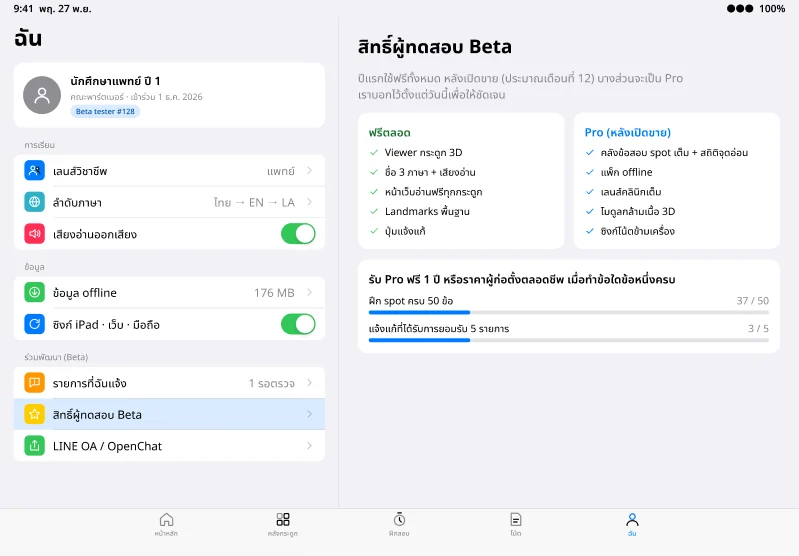
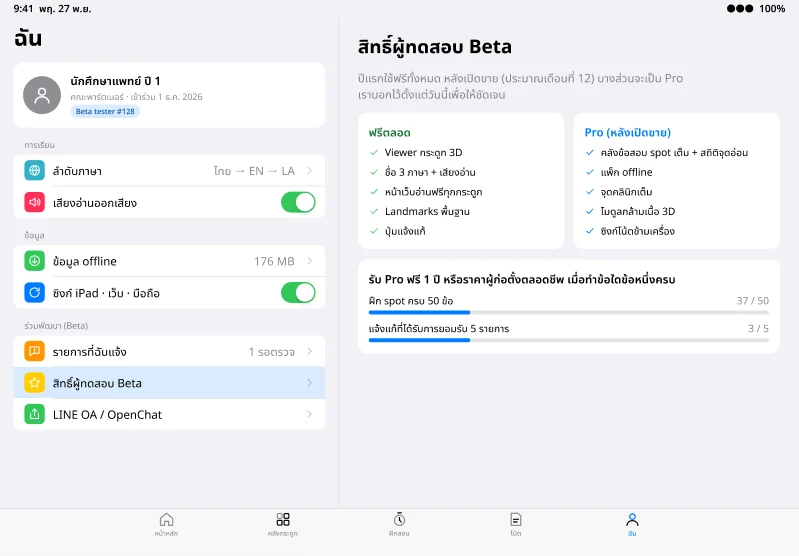
Drop profession lenses: one audience of medical students and professionals
Removes the profession-selection onboarding step, the lens setting and
lens colour tokens; clinical points become one set with four categories
(fractures, teeth/foramina, injection, palpation). Screens re-exported.

Claude-Session: https://claude.ai/code/session_01J9ZUutuVeaZk4PcqL3Fpz3

Changed region(s): [[0.0, 0.2752, 0.4205, 0.8255], [0.7509, 0.3363, 0.8411, 0.3669]]

diff --git a/anatomy-market-research/product-design/product-design.html b/anatomy-market-research/product-design/product-design.html
@@ -35,44 +35,36 @@ nav a.on{background:var(--ink);color:var(--bg)}
 <li>เห็น landmark และจุดเกาะกล้ามเนื้อบนผิวกระดูกในระดับที่ใช้สอบจริง</li>
 <li>ฝึกสอบ spot แบบจับเวลาบนโมเดล 3D แล้วทบทวนจุดที่ตอบผิดต่อบนมือถือ</li>
 </ol>
-<h2>2. ผู้ใช้และเลนส์วิชาชีพ</h2>
-<p>ผู้ใช้เลือกเลนส์วิชาชีพตอนเริ่มใช้ (เปลี่ยนได้ในหน้า ฉัน) เลนส์ใช้ข้อมูลชุดเดียวกัน แต่เปลี่ยนลำดับเนื้อหาและ "จุดคลินิก" ที่แสดง</p>
+<h2>2. ผู้ใช้</h2>
+<p>แอปออกแบบให้<strong>นักศึกษาแพทย์และบุคลากรด้านสุขภาพ</strong> ซึ่งต้องการรายละเอียดมากที่สุด ผู้ใช้ไม่ต้องเลือกบทบาทหรือวิชาชีพ ทุกคนเห็นเนื้อหาชุดเดียวกันในระดับละเอียดที่สุด (Jedt ตัดสินใจ 27 พ.ย. 2026) โหมดสำหรับศิลปินจะทำในภายหลัง</p>
+<p>จุดคลินิกจึงเป็นชุดเดียวที่ผูกกับ landmark ทุกจุด แบ่งเป็น 4 หมวดในหน้าจุดคลินิก:</p>
 <table>
 <thead>
 <tr>
-<th>เลนส์</th>
-<th>ใช้แอปเพื่อ</th>
-<th>จุดคลินิกที่เห็นก่อน</th>
-<th>สีประจำเลนส์</th>
+<th>หมวด</th>
+<th>ตัวอย่าง</th>
 </tr>
 </thead>
 <tbody>
 <tr>
-<td>แพทย์</td>
-<td>landmark ละเอียด จุดเกาะ เตรียมสอบ spot</td>
-<td>กระดูกหักที่พบบ่อย จุดคลำ</td>
-<td>น้ำเงิน</td>
+<td>กระดูกหัก</td>
+<td>ตำแหน่งที่หักบ่อย และเส้นประสาทหรือหลอดเลือดที่เสี่ยง</td>
 </tr>
 <tr>
-<td>ทันตแพทย์</td>
-<td>กะโหลกแยกชิ้น ฟันแท้และเลข FDI รูเปิดกะโหลก</td>
-<td>ฟัน FDI รูเปิดและเส้นประสาท</td>
-<td>ฟ้าอมเขียว</td>
+<td>ฟัน · รูเปิด</td>
+<td>ฟันแท้และเลข FDI รูเปิดของกะโหลกและสิ่งที่ผ่าน</td>
 </tr>
 <tr>
-<td>พยาบาล</td>
-<td>ตำแหน่งฉีดยาเข้ากล้ามเทียบกับ landmark</td>
-<td>ventrogluteal, deltoid, vastus lateralis</td>
-<td>ชมพู</td>
+<td>ฉีดยา</td>
+<td>ventrogluteal, deltoid, vastus lateralis หาตำแหน่งจาก landmark</td>
 </tr>
 <tr>
-<td>เภสัช</td>
-<td>จุดฉีดยาและตำแหน่งที่เกี่ยวกับการให้ยา</td>
-<td>ตำแหน่งฉีดยา</td>
-<td>เขียว</td>
+<td>จุดคลำ</td>
+<td>landmark ที่คลำได้บนผิวกาย</td>
 </tr>
 </tbody>
 </table>
+<p>ผู้เริ่มเรียนไม่ต้องตั้งค่าอะไรเพิ่ม หน้าจอเปิดจากชื่อกระดูกก่อน แล้วค่อยลงไปที่ landmark และจุดคลินิกในหน้าเดียวกัน</p>
 <p>ผู้ใช้กลุ่มที่สองคือ <strong>อาจารย์</strong> ที่สร้างชุด spot ของตัวเองแล้วแชร์รหัสให้นักศึกษา (โหมดอาจารย์) และตรวจรายการแจ้งแก้ที่เป็นเนื้อหา</p>
 <h2>3. หลักการออกแบบ</h2>
 <ol>
@@ -159,7 +151,7 @@ nav a.on{background:var(--ink);color:var(--bg)}
 <p>ดัชนี (ส่วนร่างกาย + A–Z) → หน้าอ่านของแต่ละกระดูก → viewer 3D บนเว็บ</p>
 <h2>6. Flow หลัก</h2>
 <ol>
-<li><strong>เริ่มใช้ครั้งแรก:</strong> ยินดีต้อนรับ → เลือกเลนส์วิชาชีพและชั้นปี → เลือกลำดับภาษาและความยินยอม beta (แยก analytics กับการติดต่อกลับ ตาม PDPA) → หน้าหลัก</li>
+<li><strong>เริ่มใช้ครั้งแรก:</strong> ยินดีต้อนรับ → เลือกลำดับภาษาและความยินยอม beta (แยก analytics กับการติดต่อกลับ ตาม PDPA) → หน้าหลัก</li>
 <li><strong>เรียน:</strong> หน้าหลักหรือคลัง → viewer โครงกระดูก → แตะกระดูก → landmark / จุดเกาะ / จุดคลินิก → แจ้งแก้ได้ทุกจุด</li>
 <li><strong>ฝึกสอบ spot:</strong> ตั้งค่า (ส่วนร่างกาย จำนวนข้อ เวลา ประเภทคำถาม) → คำถามจับเวลา → เฉลยพร้อมชื่อ 3 ภาษา → ผลสอบและจุดอ่อน → ทบทวนข้อผิดหรือสอบใหม่</li>
 <li><strong>ทบทวนบนมือถือ:</strong> ข้อที่ตอบผิดและโน้ตที่เปิด "ทำเป็น flashcard" กลายเป็นการ์ด → ทบทวนวันนี้ → ให้คะแนน ลืม / ยาก / ดี / ง่าย</li>

diff --git a/anatomy-market-research/product-design/features.html b/anatomy-market-research/product-design/features.html
@@ -77,34 +77,27 @@ nav a.on{background:var(--ink);color:var(--bg)}
 </tr>
 <tr>
 <td>6</td>
-<td>เลนส์วิชาชีพ</td>
-<td><a href="https://www.figma.com/design/6wrlr1quIhFyyvoT0bJGgk?node-id=8-49" target="_blank" rel="noopener">iPad/02 Onboarding</a>, <a href="https://www.figma.com/design/6wrlr1quIhFyyvoT0bJGgk?node-id=16-1735" target="_blank" rel="noopener">iPad/70 ฉัน</a></td>
-<td>v0.5 Beta</td>
-<td>ฟรี</td>
+<td>จุดคลินิกชุดเดียวทุก landmark + กะโหลก/ฟัน FDI</td>
+<td><a href="https://www.figma.com/design/6wrlr1quIhFyyvoT0bJGgk?node-id=13-1086" target="_blank" rel="noopener">iPad/24 Clinical</a>, <a href="https://www.figma.com/design/6wrlr1quIhFyyvoT0bJGgk?node-id=13-870" target="_blank" rel="noopener">iPad/23 Skull &amp; FDI</a></td>
+<td>v0.9</td>
+<td>จุดคลินิกเต็มเป็น Pro</td>
 </tr>
 <tr>
 <td>7</td>
-<td>จุดคลินิก + กะโหลก/ฟัน FDI</td>
-<td><a href="https://www.figma.com/design/6wrlr1quIhFyyvoT0bJGgk?node-id=13-1086" target="_blank" rel="noopener">iPad/24 Clinical</a>, <a href="https://www.figma.com/design/6wrlr1quIhFyyvoT0bJGgk?node-id=13-870" target="_blank" rel="noopener">iPad/23 Skull &amp; FDI</a></td>
-<td>v0.9</td>
-<td>เลนส์คลินิกเต็มเป็น Pro</td>
-</tr>
-<tr>
-<td>8</td>
 <td>Offline บน iPad</td>
 <td><a href="https://www.figma.com/design/6wrlr1quIhFyyvoT0bJGgk?node-id=16-1361" target="_blank" rel="noopener">iPad/60</a>, <a href="https://www.figma.com/design/6wrlr1quIhFyyvoT0bJGgk?node-id=16-1543" target="_blank" rel="noopener">iPad/61</a></td>
 <td>v0.5 Beta</td>
 <td>Pro</td>
 </tr>
 <tr>
-<td>9</td>
+<td>8</td>
 <td>เว็บอ่านฟรี</td>
 <td><a href="https://www.figma.com/design/6wrlr1quIhFyyvoT0bJGgk?node-id=18-2" target="_blank" rel="noopener">Web/01</a>, <a href="https://www.figma.com/design/6wrlr1quIhFyyvoT0bJGgk?node-id=18-270" target="_blank" rel="noopener">Web/03</a></td>
 <td>v0.1 (แขน) → ครบใน v0.9</td>
 <td>ฟรีตลอด</td>
 </tr>
 <tr>
-<td>10</td>
+<td>9</td>
 <td>ปุ่มแจ้งแก้ + สถานะ</td>
 <td><a href="https://www.figma.com/design/6wrlr1quIhFyyvoT0bJGgk?node-id=15-1164" target="_blank" rel="noopener">iPad/40 Sheet</a>, <a href="https://www.figma.com/design/6wrlr1quIhFyyvoT0bJGgk?node-id=15-1402" target="_blank" rel="noopener">iPad/41 My reports</a></td>
 <td>v0.1 Alpha</td>
@@ -155,9 +148,9 @@ nav a.on{background:var(--ink);color:var(--bg)}
 </thead>
 <tbody>
 <tr>
-<td>Onboarding 3 ขั้น</td>
-<td><a href="https://www.figma.com/design/6wrlr1quIhFyyvoT0bJGgk?node-id=8-2" target="_blank" rel="noopener">iPad/01</a>, <a href="https://www.figma.com/design/6wrlr1quIhFyyvoT0bJGgk?node-id=8-49" target="_blank" rel="noopener">02</a>, <a href="https://www.figma.com/design/6wrlr1quIhFyyvoT0bJGgk?node-id=8-132" target="_blank" rel="noopener">03</a></td>
-<td>เก็บเลนส์ ชั้นปี ลำดับภาษา และความยินยอม PDPA ตั้งแต่แรก</td>
+<td>Onboarding 2 ขั้น</td>
+<td><a href="https://www.figma.com/design/6wrlr1quIhFyyvoT0bJGgk?node-id=8-2" target="_blank" rel="noopener">iPad/01</a>, <a href="https://www.figma.com/design/6wrlr1quIhFyyvoT0bJGgk?node-id=8-132" target="_blank" rel="noopener">02</a></td>
+<td>เก็บลำดับภาษาและความยินยอม PDPA ตั้งแต่แรก ไม่ต้องเลือกวิชาชีพ</td>
 </tr>
 <tr>
 <td>หน้าหลัก "เรียนต่อ"</td>
@@ -193,7 +186,7 @@ nav a.on{background:var(--ink);color:var(--bg)}
 <tbody>
 <tr>
 <td>viewer กระดูก 3D, ชื่อ 3 ภาษาและเสียงอ่าน, หน้าเว็บอ่านฟรี, landmarks พื้นฐาน, ปุ่มแจ้งแก้</td>
-<td>คลัง spot เต็มและสถิติจุดอ่อน, แพ็ก offline, เลนส์คลินิกเต็ม, โมดูลกล้ามเนื้อ 3D, ซิงก์โน้ต</td>
+<td>คลัง spot เต็มและสถิติจุดอ่อน, แพ็ก offline, จุดคลินิกเต็ม, โมดูลกล้ามเนื้อ 3D, ซิงก์โน้ต</td>
 </tr>
 </tbody>
 </table>

diff --git a/anatomy-market-research/product-design/index.html b/anatomy-market-research/product-design/index.html
@@ -61,12 +61,12 @@ nav a.on{background:var(--ink);color:var(--bg)}
 </table>
 <h2>สรุปในหน้าเดียว</h2>
 <ul>
-<li><strong>ผู้ใช้:</strong> นักศึกษาแพทย์ ทันตแพทย์ พยาบาล เภสัช ปี 1–2 ที่เรียนกายวิภาคกระดูกเป็นภาษาไทย และอาจารย์ที่สอน spot</li>
+<li><strong>ผู้ใช้:</strong> นักศึกษาแพทย์และบุคลากรด้านสุขภาพที่เรียนกายวิภาคกระดูกเป็นภาษาไทย ไม่ต้องเลือกวิชาชีพ ทุกคนเห็นเนื้อหาระดับละเอียดที่สุดชุดเดียวกัน (โหมดศิลปินทำภายหลัง) และอาจารย์ที่สอน spot</li>
 <li><strong>แพลตฟอร์ม:</strong> iPad เป็นหลัก (เรียนกับโมเดล 3D และฝึกสอบ spot), มือถือเป็นตัวช่วยทบทวนสั้น ๆ (flashcard และโน้ต ไม่มี 3D เต็ม), เว็บสำหรับอ่านฟรีและให้ Google ค้นเจอ</li>
 <li><strong>เทคโนโลยี UI:</strong> Flutter ใช้ widget ชุด Cupertino เป็นฐานทั้งหมด สร้าง widget เองเฉพาะที่ Cupertino ไม่มี (หมุด landmark, ชื่อ 3 ภาษา, progress bar, ปุ่มเครื่องมือใน viewport) 3D ใช้ flutter_scene</li>
 <li><strong>หน้าตา:</strong> สีหลักเป็น systemBlue แบบเดียวกับ iOS/iPadOS ตามที่ Jedt ขอ, ฟอนต์ Noto Sans Thai UI เพราะ SF Pro ไม่มีอักษรไทย, viewport 3D พื้นมืดเสมอเพื่อให้กระดูกเด่น</li>
-<li><strong>ขนาดงานใน Figma:</strong> iPad 22 หน้าจอ, มือถือ 6, เว็บ 3, component 21 ชุดที่ตั้งชื่อตาม widget ของ Flutter, ไอคอน 44 ตัว, ตัวแปรสีมีโหมด Light และ Dark</li>
-<li><strong>Prototype:</strong> 104 จุดที่คลิกได้ใน 7 flow (iPad 4, มือถือ 2, เว็บ 1)</li>
+<li><strong>ขนาดงานใน Figma:</strong> iPad 21 หน้าจอ, มือถือ 6, เว็บ 3, component 21 ชุดที่ตั้งชื่อตาม widget ของ Flutter, ไอคอน 44 ตัว, ตัวแปรสีมีโหมด Light และ Dark</li>
+<li><strong>Prototype:</strong> 102 จุดที่คลิกได้ใน 7 flow (iPad 4, มือถือ 2, เว็บ 1)</li>
 <li><strong>ผลตรวจ:</strong> ฟอนต์ สี และ component สอดคล้องกันทุกหน้า พบ contrast ของป้ายสถานะสีเขียวและส้มต่ำ (2.2 : 1) จึงเพิ่มสีข้อความชุด <code>text/*</code> แก้แล้ว ส่วนที่ยังขาดดูใน <a href="verification.html">ผลตรวจ</a></li>
 </ul>
 <h2>เอกสารในส่วนนี้</h2>
@@ -101,7 +101,7 @@ nav a.on{background:var(--ink);color:var(--bg)}
 </tr>
 <tr>
 <td>03 iPad (primary)</td>
-<td>22 หน้าจอ 1180 × 820 (iPad Air 11" แนวนอน)</td>
+<td>21 หน้าจอ 1180 × 820 (iPad Air 11" แนวนอน)</td>
 </tr>
 <tr>
 <td>04 Phone companion</td>

diff --git a/anatomy-market-research/product-design/prototype.html b/anatomy-market-research/product-design/prototype.html
@@ -41,7 +41,7 @@ nav a.on{background:var(--ink);color:var(--bg)}
 <tr>
 <td>iPad · 1 Onboarding → Home</td>
 <td><a href="https://www.figma.com/proto/6wrlr1quIhFyyvoT0bJGgk?node-id=8-2&amp;starting-point-node-id=8%3A2" target="_blank" rel="noopener">เปิด</a></td>
-<td>ยินดีต้อนรับ → เลือกเลนส์ → ภาษาและความยินยอม → หน้าหลัก</td>
+<td>ยินดีต้อนรับ → ภาษาและความยินยอม → หน้าหลัก</td>
 </tr>
 <tr>
 <td>iPad · 2 Learn</td>
@@ -75,7 +75,7 @@ nav a.on{background:var(--ink);color:var(--bg)}
 </tr>
 </tbody>
 </table>
-<p>ทั้งหมด 104 จุดที่คลิกได้ ใช้ Smart animate 300 ms สำหรับการไปหน้าถัดไป และ dissolve 200 ms สำหรับ sheet, alert และการสลับแท็บ</p>
+<p>ทั้งหมด 102 จุดที่คลิกได้ ใช้ Smart animate 300 ms สำหรับการไปหน้าถัดไป และ dissolve 200 ms สำหรับ sheet, alert และการสลับแท็บ</p>
 <h2>2. หน้าจอ iPad (1180 × 820)</h2>
 <h3>Onboarding</h3>
 <table>
@@ -89,13 +89,13 @@ nav a.on{background:var(--ink);color:var(--bg)}
 <tbody>
 <tr>
 <td><img alt="" src="img/ipad-01-welcome.webp" /></td>
-<td><img alt="" src="img/ipad-02-lens.webp" /></td>
-<td><img alt="" src="img/ipad-03-language.webp" /></td>
+<td><img alt="" src="img/ipad-02-language.webp" /></td>
+<td></td>
 </tr>
 <tr>
 <td><a href="https://www.figma.com/design/6wrlr1quIhFyyvoT0bJGgk?node-id=8-2" target="_blank" rel="noopener">01 ยินดีต้อนรับ</a></td>
-<td><a href="https://www.figma.com/design/6wrlr1quIhFyyvoT0bJGgk?node-id=8-49" target="_blank" rel="noopener">02 เลือกเลนส์วิชาชีพ</a></td>
-<td><a href="https://www.figma.com/design/6wrlr1quIhFyyvoT0bJGgk?node-id=8-132" target="_blank" rel="noopener">03 ภาษาและความยินยอม beta</a></td>
+<td><a href="https://www.figma.com/design/6wrlr1quIhFyyvoT0bJGgk?node-id=8-132" target="_blank" rel="noopener">02 ภาษาและความยินยอม beta</a></td>
+<td></td>
 </tr>
 </tbody>
 </table>
@@ -148,7 +148,7 @@ nav a.on{background:var(--ink);color:var(--bg)}
 </tr>
 <tr>
 <td><a href="https://www.figma.com/design/6wrlr1quIhFyyvoT0bJGgk?node-id=13-870" target="_blank" rel="noopener">23 กะโหลกแยกชิ้นและฟัน FDI</a></td>
-<td><a href="https://www.figma.com/design/6wrlr1quIhFyyvoT0bJGgk?node-id=13-1086" target="_blank" rel="noopener">24 จุดคลินิก (เลนส์พยาบาล)</a></td>
+<td><a href="https://www.figma.com/design/6wrlr1quIhFyyvoT0bJGgk?node-id=13-1086" target="_blank" rel="noopener">24 จุดคลินิก (หมวดฉีดยา)</a></td>
 <td></td>
 </tr>
 </tbody>

diff --git a/anatomy-market-research/product-design/verification.html b/anatomy-market-research/product-design/verification.html
@@ -109,7 +109,7 @@ nav a.on{background:var(--ink);color:var(--bg)}
 <tr>
 <td>Prototype</td>
 <td>ทุกปุ่มหลักไปหน้าที่ถูก</td>
-<td>104 จุดคลิก 7 flow ไม่มีปลายทางที่หาย</td>
+<td>102 จุดคลิก 7 flow ไม่มีปลายทางที่หาย</td>
 <td>ผ่าน</td>
 </tr>
 <tr>
@@ -125,6 +125,7 @@ nav a.on{background:var(--ink);color:var(--bg)}
 <li><strong>Contrast ป้ายสถานะ</strong> เพิ่มตัวแปร <code>text/*</code> แล้วเปลี่ยนข้อความสีเขียว ส้ม แดง และข้อความในป้ายสีน้ำเงิน ทั้งใน component และทุกหน้าจอ (15 จุด)</li>
 <li><strong>ชื่อบนแถบนำทางหายบนมือถือ</strong> ช่องซ้ายขวาของ <code>CupertinoNavigationBar</code> เดิมกว้างคงที่ 240 ทำให้ชื่อตรงกลางเหลือ 1 px บนจอ 393 เปลี่ยนเป็นยืดเท่ากัน ชื่อจึงอยู่กลางทุกขนาดจอ ตรงกับพฤติกรรม <code>NavigationToolbar</code> ของ Flutter</li>
 <li><strong>สีหลัก</strong> เปลี่ยนจากม่วงเป็น systemBlue ตามที่ Jedt ขอ (ทำก่อนตรวจ)</li>
+<li><strong>ตัดเลนส์วิชาชีพ</strong> ตามที่ Jedt ขอ: ลบหน้าเลือกวิชาชีพใน onboarding, แถวเลนส์ในหน้า ฉัน และตัวแปรสี <code>lens/*</code> แล้วเปลี่ยนแถบเลนส์ในหน้าจุดคลินิกเป็น 4 หมวด</li>
 </ol>
 <h2>3. ช่องว่างที่ยังเหลือ</h2>
 <ul>

diff --git a/anatomy-market-research/product-design/requirements.html b/anatomy-market-research/product-design/requirements.html
@@ -109,7 +109,7 @@ nav a.on{background:var(--ink);color:var(--bg)}
 </tr>
 <tr>
 <td>FR-15</td>
-<td>จุดคลินิกตามเลนส์</td>
+<td>จุดคลินิก 4 หมวด (กระดูกหัก, ฟัน · รูเปิด, ฉีดยา, จุดคลำ)</td>
 <td>แสดงขั้นตอนหาตำแหน่งจาก landmark และคำเตือนตำแหน่งเสี่ยง พร้อมข้อความว่าใช้เพื่อการเรียน</td>
 <td>iPad/24</td>
 </tr>
@@ -232,7 +232,7 @@ nav a.on{background:var(--ink);color:var(--bg)}
 </tr>
 <tr>
 <td>FR-43</td>
-<td>เลนส์ ภาษา เสียง ตั้งค่าได้ภายหลัง</td>
+<td>ภาษาและเสียง ตั้งค่าได้ภายหลัง</td>
 <td>อยู่ในหน้า ฉัน</td>
 <td>iPad/70</td>
 </tr>

diff --git a/anatomy-market-research/product-design/ui-design.html b/anatomy-market-research/product-design/ui-design.html
@@ -94,12 +94,6 @@ nav a.on{background:var(--ink);color:var(--bg)}
 <td>สีหมุดและแผนที่จุดเกาะ</td>
 <td>ค่าคงที่ใน theme extension</td>
 </tr>
-<tr>
-<td>เลนส์</td>
-<td><code>lens/medicine, dentistry, nursing, pharmacy</code></td>
-<td>สีประจำเลนส์</td>
-<td>theme extension</td>
-</tr>
 </tbody>
 </table>
 <h2>3. ตัวอักษร</h2>

diff --git a/docs/product-design/th/03-features.md b/docs/product-design/th/03-features.md
@@ -11,11 +11,10 @@
 | 3 | Landmarks | [iPad/21 Landmarks](https://www.figma.com/design/6wrlr1quIhFyyvoT0bJGgk?node-id=13-519) | v0.1 Alpha | พื้นฐานฟรี |
 | 4 | แผนที่จุดเกาะกล้ามเนื้อ | [iPad/22 Attachments](https://www.figma.com/design/6wrlr1quIhFyyvoT0bJGgk?node-id=13-706) | v0.1 Alpha (แขน) | ฟรี |
 | 5 | ฝึกสอบ spot จับเวลา | [iPad/30](https://www.figma.com/design/6wrlr1quIhFyyvoT0bJGgk?node-id=14-828) → [31](https://www.figma.com/design/6wrlr1quIhFyyvoT0bJGgk?node-id=14-1151) → [32](https://www.figma.com/design/6wrlr1quIhFyyvoT0bJGgk?node-id=14-1208) → [33](https://www.figma.com/design/6wrlr1quIhFyyvoT0bJGgk?node-id=14-1275) | v0.5 Beta | คลังเต็ม + สถิติจุดอ่อนเป็น Pro |
-| 6 | เลนส์วิชาชีพ | [iPad/02 Onboarding](https://www.figma.com/design/6wrlr1quIhFyyvoT0bJGgk?node-id=8-49), [iPad/70 ฉัน](https://www.figma.com/design/6wrlr1quIhFyyvoT0bJGgk?node-id=16-1735) | v0.5 Beta | ฟรี |
-| 7 | จุดคลินิก + กะโหลก/ฟัน FDI | [iPad/24 Clinical](https://www.figma.com/design/6wrlr1quIhFyyvoT0bJGgk?node-id=13-1086), [iPad/23 Skull & FDI](https://www.figma.com/design/6wrlr1quIhFyyvoT0bJGgk?node-id=13-870) | v0.9 | เลนส์คลินิกเต็มเป็น Pro |
-| 8 | Offline บน iPad | [iPad/60](https://www.figma.com/design/6wrlr1quIhFyyvoT0bJGgk?node-id=16-1361), [iPad/61](https://www.figma.com/design/6wrlr1quIhFyyvoT0bJGgk?node-id=16-1543) | v0.5 Beta | Pro |
-| 9 | เว็บอ่านฟรี | [Web/01](https://www.figma.com/design/6wrlr1quIhFyyvoT0bJGgk?node-id=18-2), [Web/03](https://www.figma.com/design/6wrlr1quIhFyyvoT0bJGgk?node-id=18-270) | v0.1 (แขน) → ครบใน v0.9 | ฟรีตลอด |
-| 10 | ปุ่มแจ้งแก้ + สถานะ | [iPad/40 Sheet](https://www.figma.com/design/6wrlr1quIhFyyvoT0bJGgk?node-id=15-1164), [iPad/41 My reports](https://www.figma.com/design/6wrlr1quIhFyyvoT0bJGgk?node-id=15-1402) | v0.1 Alpha | ฟรีตลอด |
+| 6 | จุดคลินิกชุดเดียวทุก landmark + กะโหลก/ฟัน FDI | [iPad/24 Clinical](https://www.figma.com/design/6wrlr1quIhFyyvoT0bJGgk?node-id=13-1086), [iPad/23 Skull & FDI](https://www.figma.com/design/6wrlr1quIhFyyvoT0bJGgk?node-id=13-870) | v0.9 | จุดคลินิกเต็มเป็น Pro |
+| 7 | Offline บน iPad | [iPad/60](https://www.figma.com/design/6wrlr1quIhFyyvoT0bJGgk?node-id=16-1361), [iPad/61](https://www.figma.com/design/6wrlr1quIhFyyvoT0bJGgk?node-id=16-1543) | v0.5 Beta | Pro |
+| 8 | เว็บอ่านฟรี | [Web/01](https://www.figma.com/design/6wrlr1quIhFyyvoT0bJGgk?node-id=18-2), [Web/03](https://www.figma.com/design/6wrlr1quIhFyyvoT0bJGgk?node-id=18-270) | v0.1 (แขน) → ครบใน v0.9 | ฟรีตลอด |
+| 9 | ปุ่มแจ้งแก้ + สถานะ | [iPad/40 Sheet](https://www.figma.com/design/6wrlr1quIhFyyvoT0bJGgk?node-id=15-1164), [iPad/41 My reports](https://www.figma.com/design/6wrlr1quIhFyyvoT0bJGgk?node-id=15-1402) | v0.1 Alpha | ฟรีตลอด |
 
 ## 2. Should-have (ถ้าทันในปีแรก)
 
@@ -30,7 +29,7 @@
 
 | Feature | หน้าจอ | เหตุผล |
 |---|---|---|
-| Onboarding 3 ขั้น | [iPad/01](https://www.figma.com/design/6wrlr1quIhFyyvoT0bJGgk?node-id=8-2), [02](https://www.figma.com/design/6wrlr1quIhFyyvoT0bJGgk?node-id=8-49), [03](https://www.figma.com/design/6wrlr1quIhFyyvoT0bJGgk?node-id=8-132) | เก็บเลนส์ ชั้นปี ลำดับภาษา และความยินยอม PDPA ตั้งแต่แรก |
+| Onboarding 2 ขั้น | [iPad/01](https://www.figma.com/design/6wrlr1quIhFyyvoT0bJGgk?node-id=8-2), [02](https://www.figma.com/design/6wrlr1quIhFyyvoT0bJGgk?node-id=8-132) | เก็บลำดับภาษาและความยินยอม PDPA ตั้งแต่แรก ไม่ต้องเลือกวิชาชีพ |
 | หน้าหลัก "เรียนต่อ" | [iPad/10 Home](https://www.figma.com/design/6wrlr1quIhFyyvoT0bJGgk?node-id=8-320) | กลับไปจุดเดิมในแตะเดียว และชวนทำ spot วันละนิด |
 | คลังกระดูกแบบ split view | [iPad/11 Library](https://www.figma.com/design/6wrlr1quIhFyyvoT0bJGgk?node-id=11-204) | หาเจอได้โดยไม่ต้องหมุนโมเดล |
 | ค้นหาสามภาษา | [iPad/12 Search](https://www.figma.com/design/6wrlr1quIhFyyvoT0bJGgk?node-id=11-554), [Phone/05](https://www.figma.com/design/6wrlr1quIhFyyvoT0bJGgk?node-id=17-358) | นักศึกษาจำได้บางภาษา |
@@ -41,4 +40,4 @@
 
 | ฟรีตลอด | Pro **(ประมาณการ)** |
 |---|---|
-| viewer กระดูก 3D, ชื่อ 3 ภาษาและเสียงอ่าน, หน้าเว็บอ่านฟรี, landmarks พื้นฐาน, ปุ่มแจ้งแก้ | คลัง spot เต็มและสถิติจุดอ่อน, แพ็ก offline, เลนส์คลินิกเต็ม, โมดูลกล้ามเนื้อ 3D, ซิงก์โน้ต |
+| viewer กระดูก 3D, ชื่อ 3 ภาษาและเสียงอ่าน, หน้าเว็บอ่านฟรี, landmarks พื้นฐาน, ปุ่มแจ้งแก้ | คลัง spot เต็มและสถิติจุดอ่อน, แพ็ก offline, จุดคลินิกเต็ม, โมดูลกล้ามเนื้อ 3D, ซิงก์โน้ต |

diff --git a/docs/product-design/th/README.md b/docs/product-design/th/README.md
@@ -17,12 +17,12 @@
 
 ## สรุปในหน้าเดียว
 
-- **ผู้ใช้:** นักศึกษาแพทย์ ทันตแพทย์ พยาบาล เภสัช ปี 1–2 ที่เรียนกายวิภาคกระดูกเป็นภาษาไทย และอาจารย์ที่สอน spot
+- **ผู้ใช้:** นักศึกษาแพทย์และบุคลากรด้านสุขภาพที่เรียนกายวิภาคกระดูกเป็นภาษาไทย ไม่ต้องเลือกวิชาชีพ ทุกคนเห็นเนื้อหาระดับละเอียดที่สุดชุดเดียวกัน (โหมดศิลปินทำภายหลัง) และอาจารย์ที่สอน spot
 - **แพลตฟอร์ม:** iPad เป็นหลัก (เรียนกับโมเดล 3D และฝึกสอบ spot), มือถือเป็นตัวช่วยทบทวนสั้น ๆ (flashcard และโน้ต ไม่มี 3D เต็ม), เว็บสำหรับอ่านฟรีและให้ Google ค้นเจอ
 - **เทคโนโลยี UI:** Flutter ใช้ widget ชุด Cupertino เป็นฐานทั้งหมด สร้าง widget เองเฉพาะที่ Cupertino ไม่มี (หมุด landmark, ชื่อ 3 ภาษา, progress bar, ปุ่มเครื่องมือใน viewport) 3D ใช้ flutter_scene
 - **หน้าตา:** สีหลักเป็น systemBlue แบบเดียวกับ iOS/iPadOS ตามที่ Jedt ขอ, ฟอนต์ Noto Sans Thai UI เพราะ SF Pro ไม่มีอักษรไทย, viewport 3D พื้นมืดเสมอเพื่อให้กระดูกเด่น
-- **ขนาดงานใน Figma:** iPad 22 หน้าจอ, มือถือ 6, เว็บ 3, component 21 ชุดที่ตั้งชื่อตาม widget ของ Flutter, ไอคอน 44 ตัว, ตัวแปรสีมีโหมด Light และ Dark
-- **Prototype:** 104 จุดที่คลิกได้ใน 7 flow (iPad 4, มือถือ 2, เว็บ 1)
+- **ขนาดงานใน Figma:** iPad 21 หน้าจอ, มือถือ 6, เว็บ 3, component 21 ชุดที่ตั้งชื่อตาม widget ของ Flutter, ไอคอน 44 ตัว, ตัวแปรสีมีโหมด Light และ Dark
+- **Prototype:** 102 จุดที่คลิกได้ใน 7 flow (iPad 4, มือถือ 2, เว็บ 1)
 - **ผลตรวจ:** ฟอนต์ สี และ component สอดคล้องกันทุกหน้า พบ contrast ของป้ายสถานะสีเขียวและส้มต่ำ (2.2 : 1) จึงเพิ่มสีข้อความชุด `text/*` แก้แล้ว ส่วนที่ยังขาดดูใน [ผลตรวจ](06-verification.md)
 
 ## เอกสารในส่วนนี้
@@ -41,7 +41,7 @@
 | 00 Cover | หน้าปกและวิธีเปิด prototype |
 | 01 Foundations | สี ตัวอักษร ระยะ มุมโค้ง และภาพ render ตัวอย่าง |
 | 02 Components · Flutter Cupertino | component 21 ชุดและไอคอน 44 ตัว |
-| 03 iPad (primary) | 22 หน้าจอ 1180 × 820 (iPad Air 11" แนวนอน) |
+| 03 iPad (primary) | 21 หน้าจอ 1180 × 820 (iPad Air 11" แนวนอน) |
 | 04 Phone companion | 6 หน้าจอ 393 × 852 (iPhone 15/16) |
 | 05 Web | 3 หน้าจอ 1440 กว้าง |
 | 06 Verification | ตาราง widget mapping และผลตรวจ |

diff --git a/docs/product-design/th/06-verification.md b/docs/product-design/th/06-verification.md
@@ -19,7 +19,7 @@
 | เป้าแตะ | ≥ 44 × 44 pt | ภาพปุ่ม small สูง 31, segment 29, แท็บ 42 + ขอบล่าง 20 | ผ่านในโค้ด (`CupertinoButton.minSize` 44) · segment สูงตามค่าเริ่มต้นของ Apple |
 | ระยะบรรทัดภาษาไทย | ประมาณ 1.4 เท่า | ข้อความเนื้อหา 1.33 – 1.41 · หัวข้อและป้ายบรรทัดเดียว 1.20 – 1.29 | เนื้อหาผ่าน · หัวข้อต้องทดสอบสระบนล่างใน Flutter |
 | Dark mode | ทุกสีมีค่า Dark | ตัวแปรสีครบ 2 โหมด viewport มืดเสมอ | ผ่าน (ยังไม่มีภาพหน้าจอ Dark) |
-| Prototype | ทุกปุ่มหลักไปหน้าที่ถูก | 104 จุดคลิก 7 flow ไม่มีปลายทางที่หาย | ผ่าน |
+| Prototype | ทุกปุ่มหลักไปหน้าที่ถูก | 102 จุดคลิก 7 flow ไม่มีปลายทางที่หาย | ผ่าน |
 | ข้ามแพลตฟอร์ม | ใช้ token และ widget ชุดเดียว | viewer บนเว็บใช้ layout เดียวกับ iPad · หน้าอ่าน HTML ใช้ token สีและตัวอักษรเดียวกัน | ผ่าน |
 
 ## 2. สิ่งที่แก้ระหว่างตรวจ
@@ -27,6 +27,7 @@
 1. **Contrast ป้ายสถานะ** เพิ่มตัวแปร `text/*` แล้วเปลี่ยนข้อความสีเขียว ส้ม แดง และข้อความในป้ายสีน้ำเงิน ทั้งใน component และทุกหน้าจอ (15 จุด)
 2. **ชื่อบนแถบนำทางหายบนมือถือ** ช่องซ้ายขวาของ `CupertinoNavigationBar` เดิมกว้างคงที่ 240 ทำให้ชื่อตรงกลางเหลือ 1 px บนจอ 393 เปลี่ยนเป็นยืดเท่ากัน ชื่อจึงอยู่กลางทุกขนาดจอ ตรงกับพฤติกรรม `NavigationToolbar` ของ Flutter
 3. **สีหลัก** เปลี่ยนจากม่วงเป็น systemBlue ตามที่ Jedt ขอ (ทำก่อนตรวจ)
+4. **ตัดเลนส์วิชาชีพ** ตามที่ Jedt ขอ: ลบหน้าเลือกวิชาชีพใน onboarding, แถวเลนส์ในหน้า ฉัน และตัวแปรสี `lens/*` แล้วเปลี่ยนแถบเลนส์ในหน้าจุดคลินิกเป็น 4 หมวด
 
 ## 3. ช่องว่างที่ยังเหลือ
 
